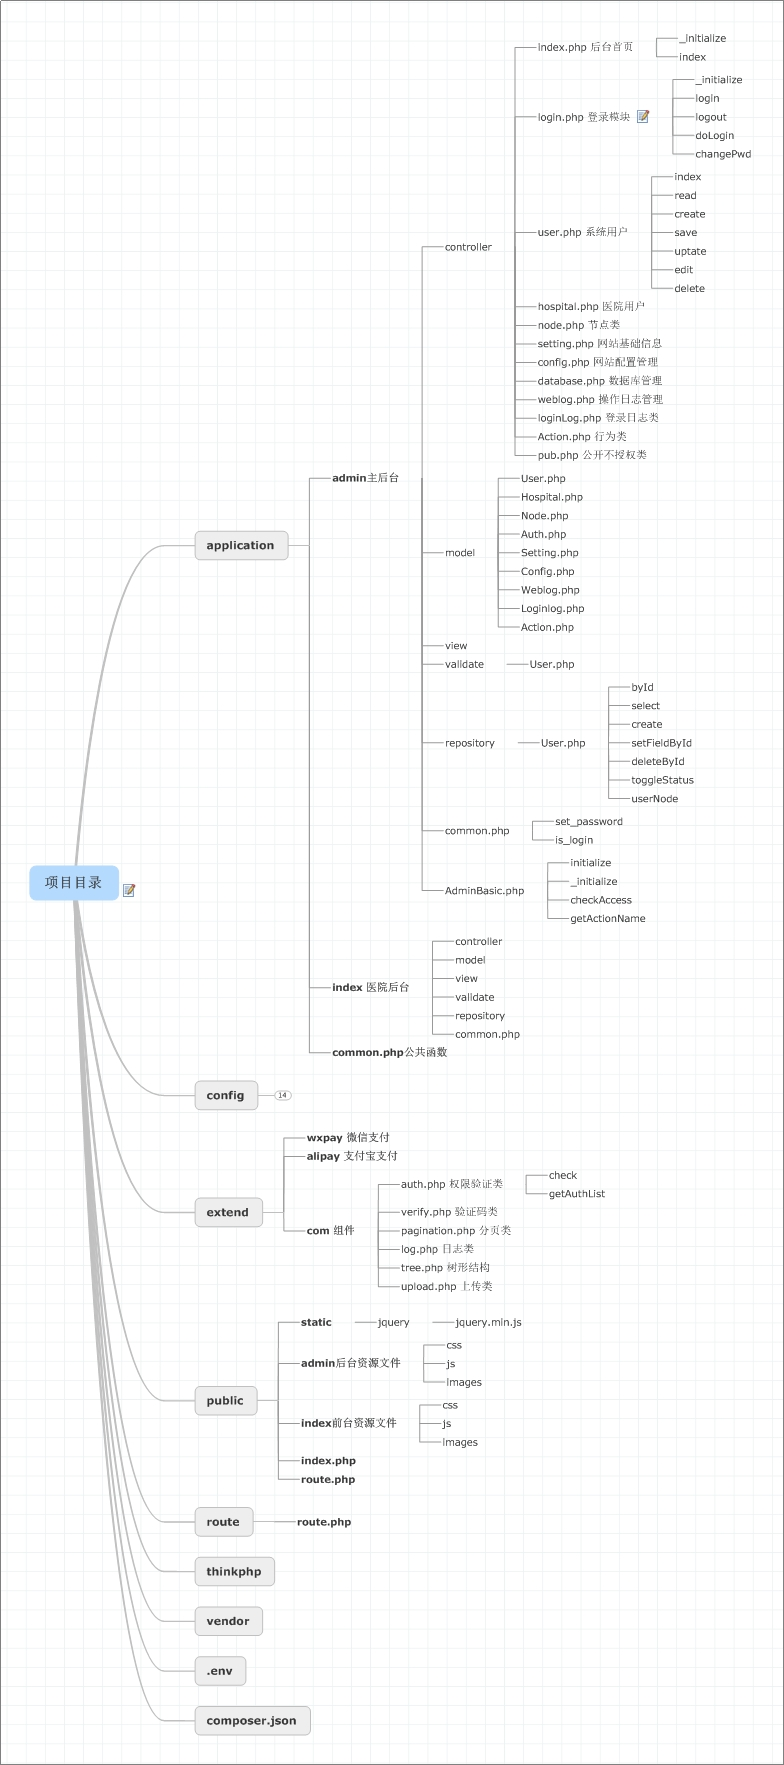
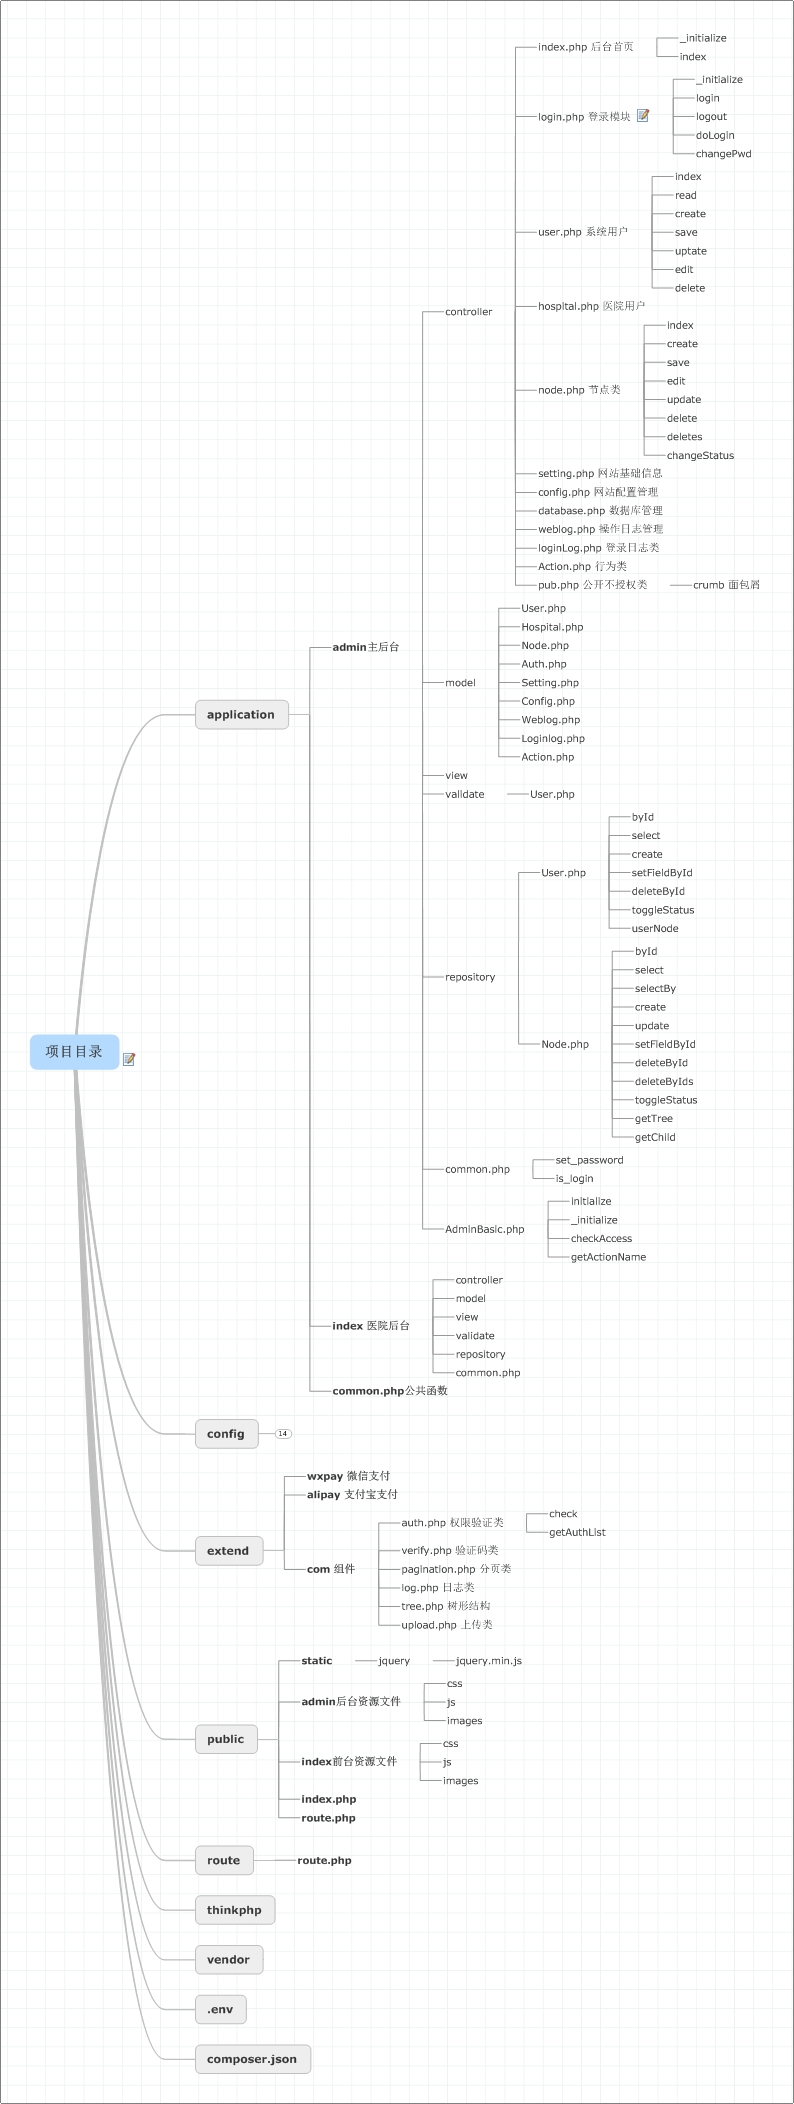
新增系统用户授权

diff --git a/application/admin/controller/UserAccess.php b/application/admin/controller/UserAccess.php
@@ -1,0 +1,61 @@
+<?php
+
+namespace app\admin\controller;
+
+use app\admin\AdminBasic;
+use app\admin\repository\Node as NodeRepository;
+
+/**
+ * 系统用户授权
+ */
+class UserAccess extends AdminBasic
+{
+    protected $node;
+    public function _initialize()
+    {
+        $this->node = new NodeRepository();
+    }
+
+    public function nodeTree()
+    {
+        $nodeList = $this->node->getTree();
+        $usernodes = $this->user->userNode();
+        $nodes = $this->getNodes($usernodes);
+        $nodeTree = $this->getNodeTree($nodeList,$nodes);
+        return $nodeTree;
+    }
+
+    private function getNodes($usernodes)
+    {
+        if($usernodes){
+            $nodes=[];
+            foreach ($usernodes as $key => $value) {
+                $nodes[] = $value['pivot']['node_id'];
+            }
+            return $nodes;
+        }
+        return false;
+    }
+
+    private function getNodeTree($nodeList,$nodes)
+    {
+        if($nodes){
+            foreach ($nodeList as $key => $node) {
+                if(in_array($node['id'],$nodes)){
+                    $nodeList[$key]['checked'] =1;
+                }
+                foreach ($node['child'] as $childkey => $child) {
+                    if(in_array($child['id'],$nodes)){
+                        $nodeList[$key]['child'][$childkey]['checked'] =1;
+                    }
+                    foreach ($child['subchild'] as $subkey => $subchild) {
+                        if(in_array($subchild['id'],$nodes)){
+                            $nodeList[$key]['child'][$childkey]['subchild'][$subkey]['checked'] =1;
+                        }
+                    }
+                }
+            }
+        }
+        return $nodeList;
+    }
+}

diff --git a/application/admin/repository/User.php b/application/admin/repository/User.php
@@ -2,6 +2,7 @@
 namespace app\admin\repository;
 
 use app\admin\model\User as UserModel;
+use think\facade\Session;
 
 /**
  * 系统用户仓库
@@ -50,7 +51,7 @@ class User
 	// 返回当前用户所有节点信息
 	public function userNode()
 	{
-		$user = $this->byId(1);
+		$user = $this->byId(Session::get('king_auth.id'));
 		return $user->nodes;
 	}
 }

diff --git a/route/route.php b/route/route.php
@@ -38,3 +38,6 @@ Route::post('king/user/status/:id','admin/user/changeStatus');
 /* 规则模块路由 */
 Route::resource('king/node','admin/node');
 Route::get('king/node/deletes/:ids','admin/node/deletes');
+
+/* 系统用户权限 */
+Route::get('king/auth','admin/userAccess/nodeTree');
